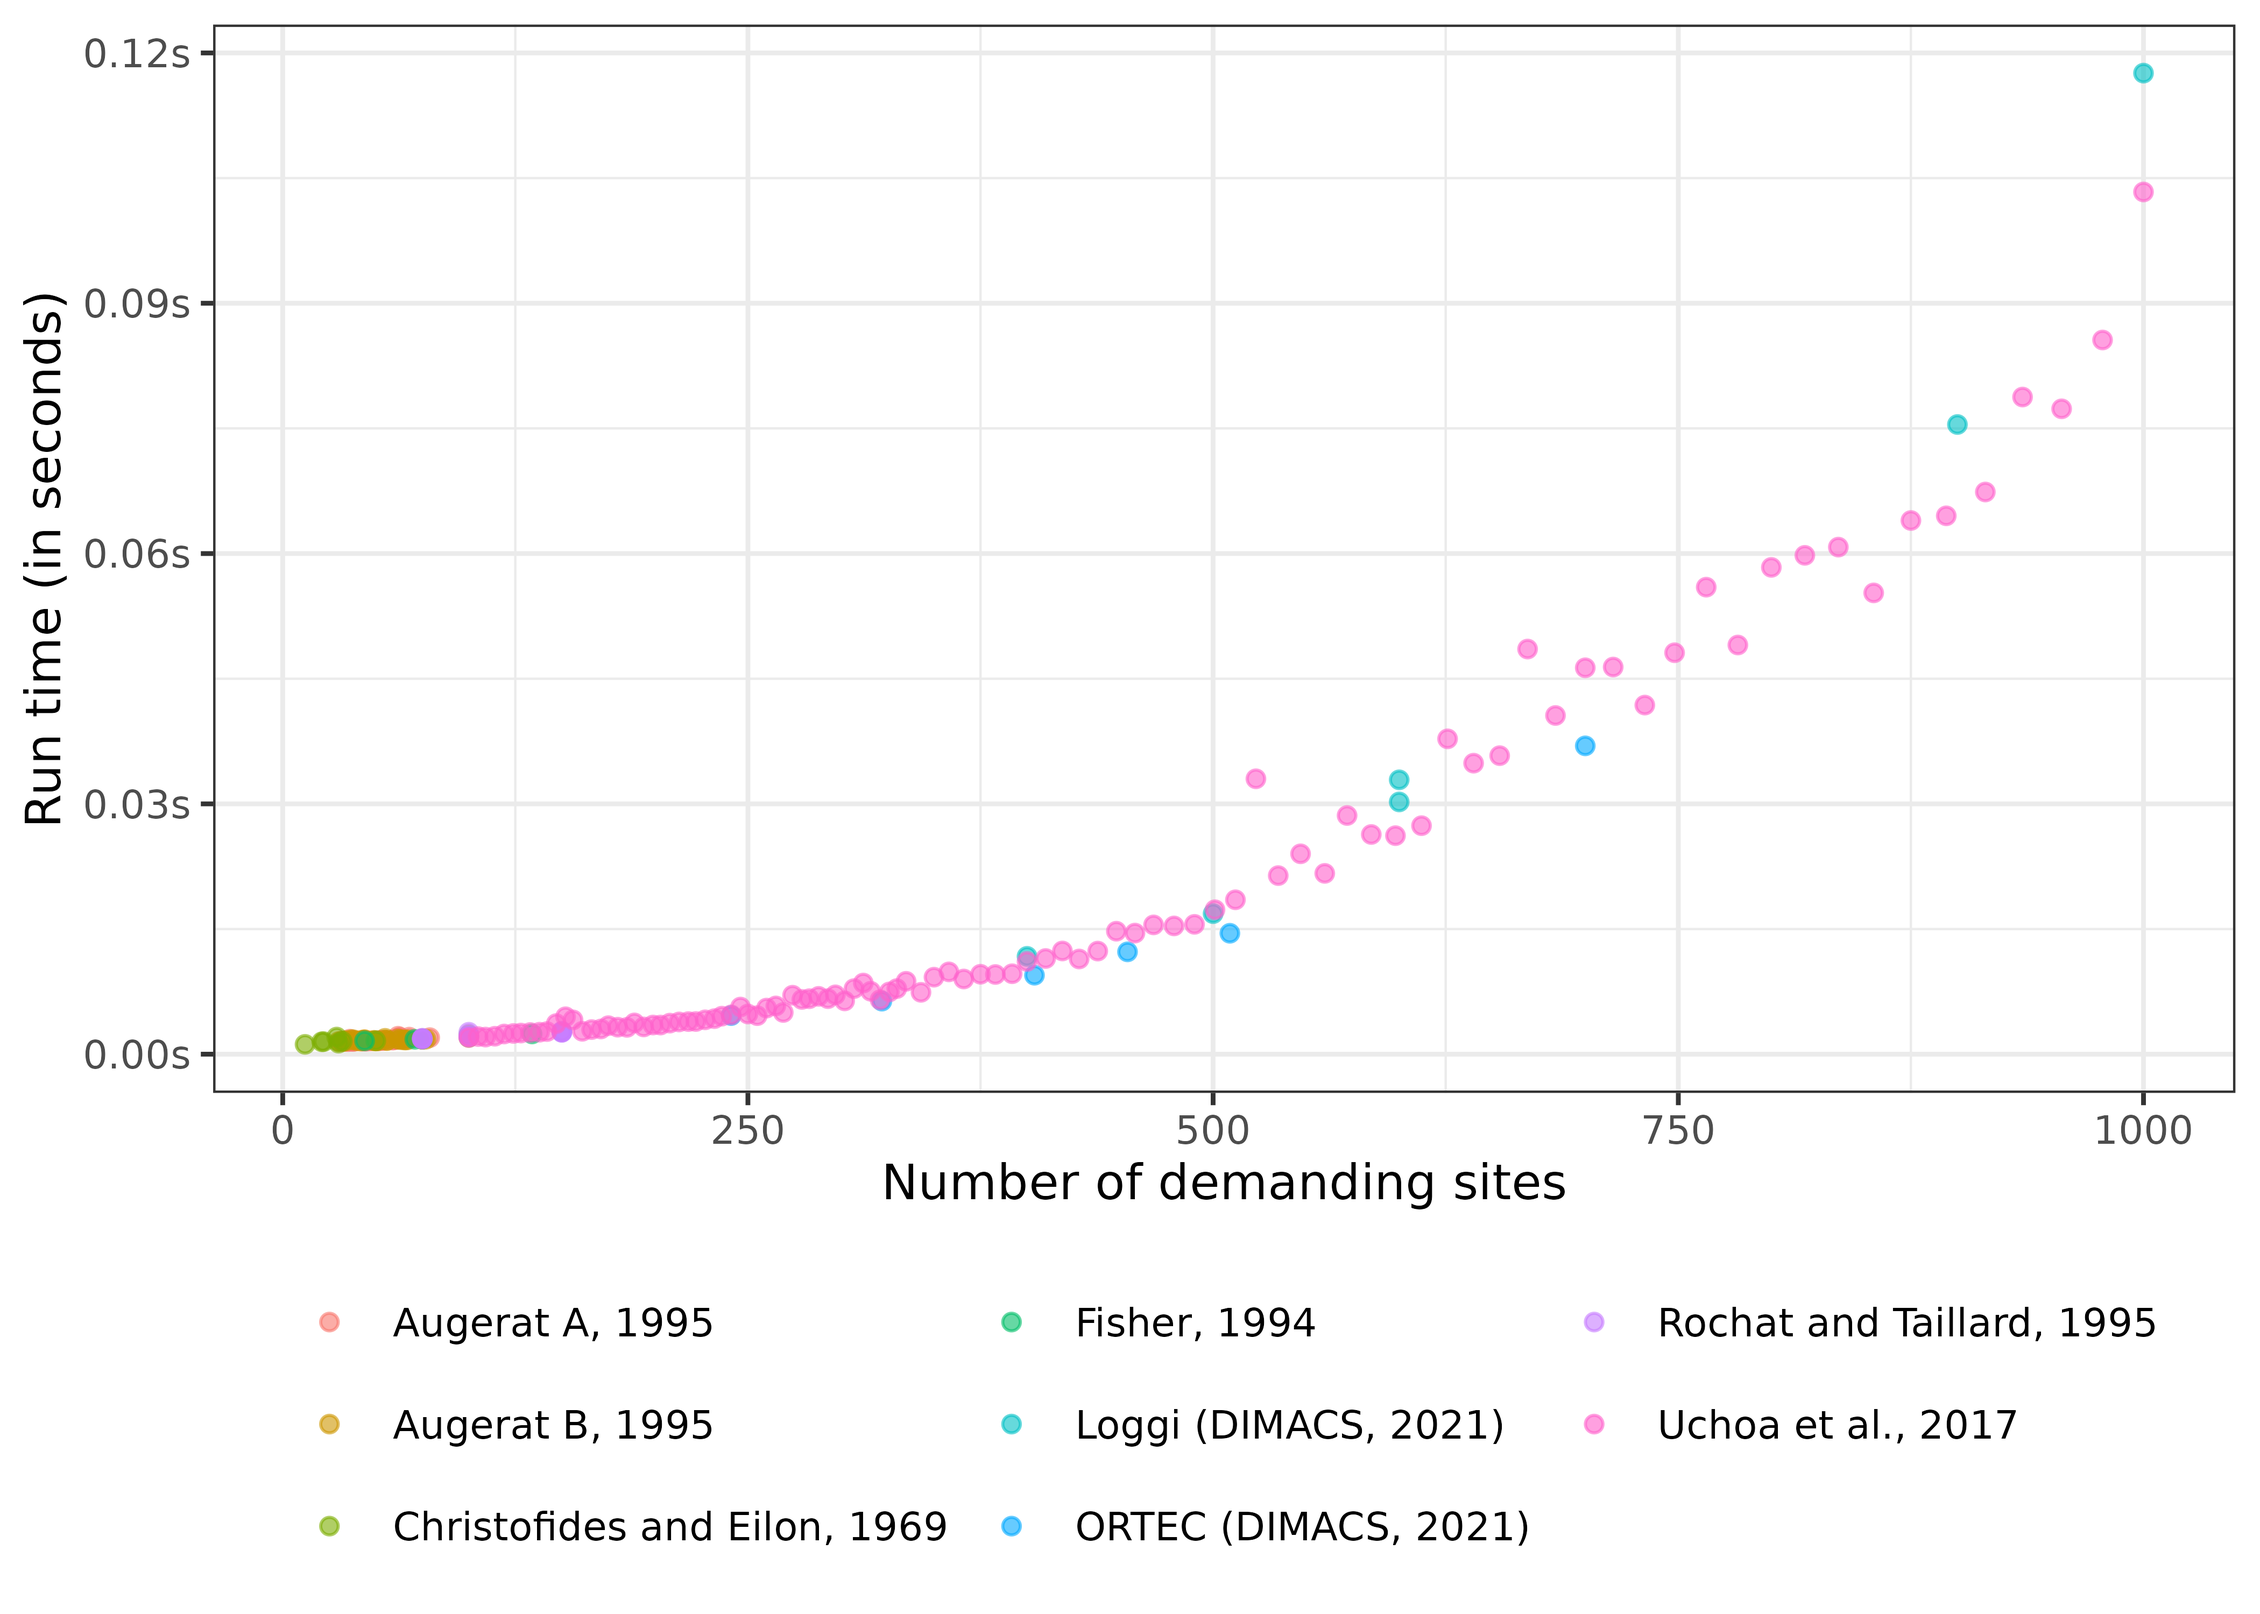
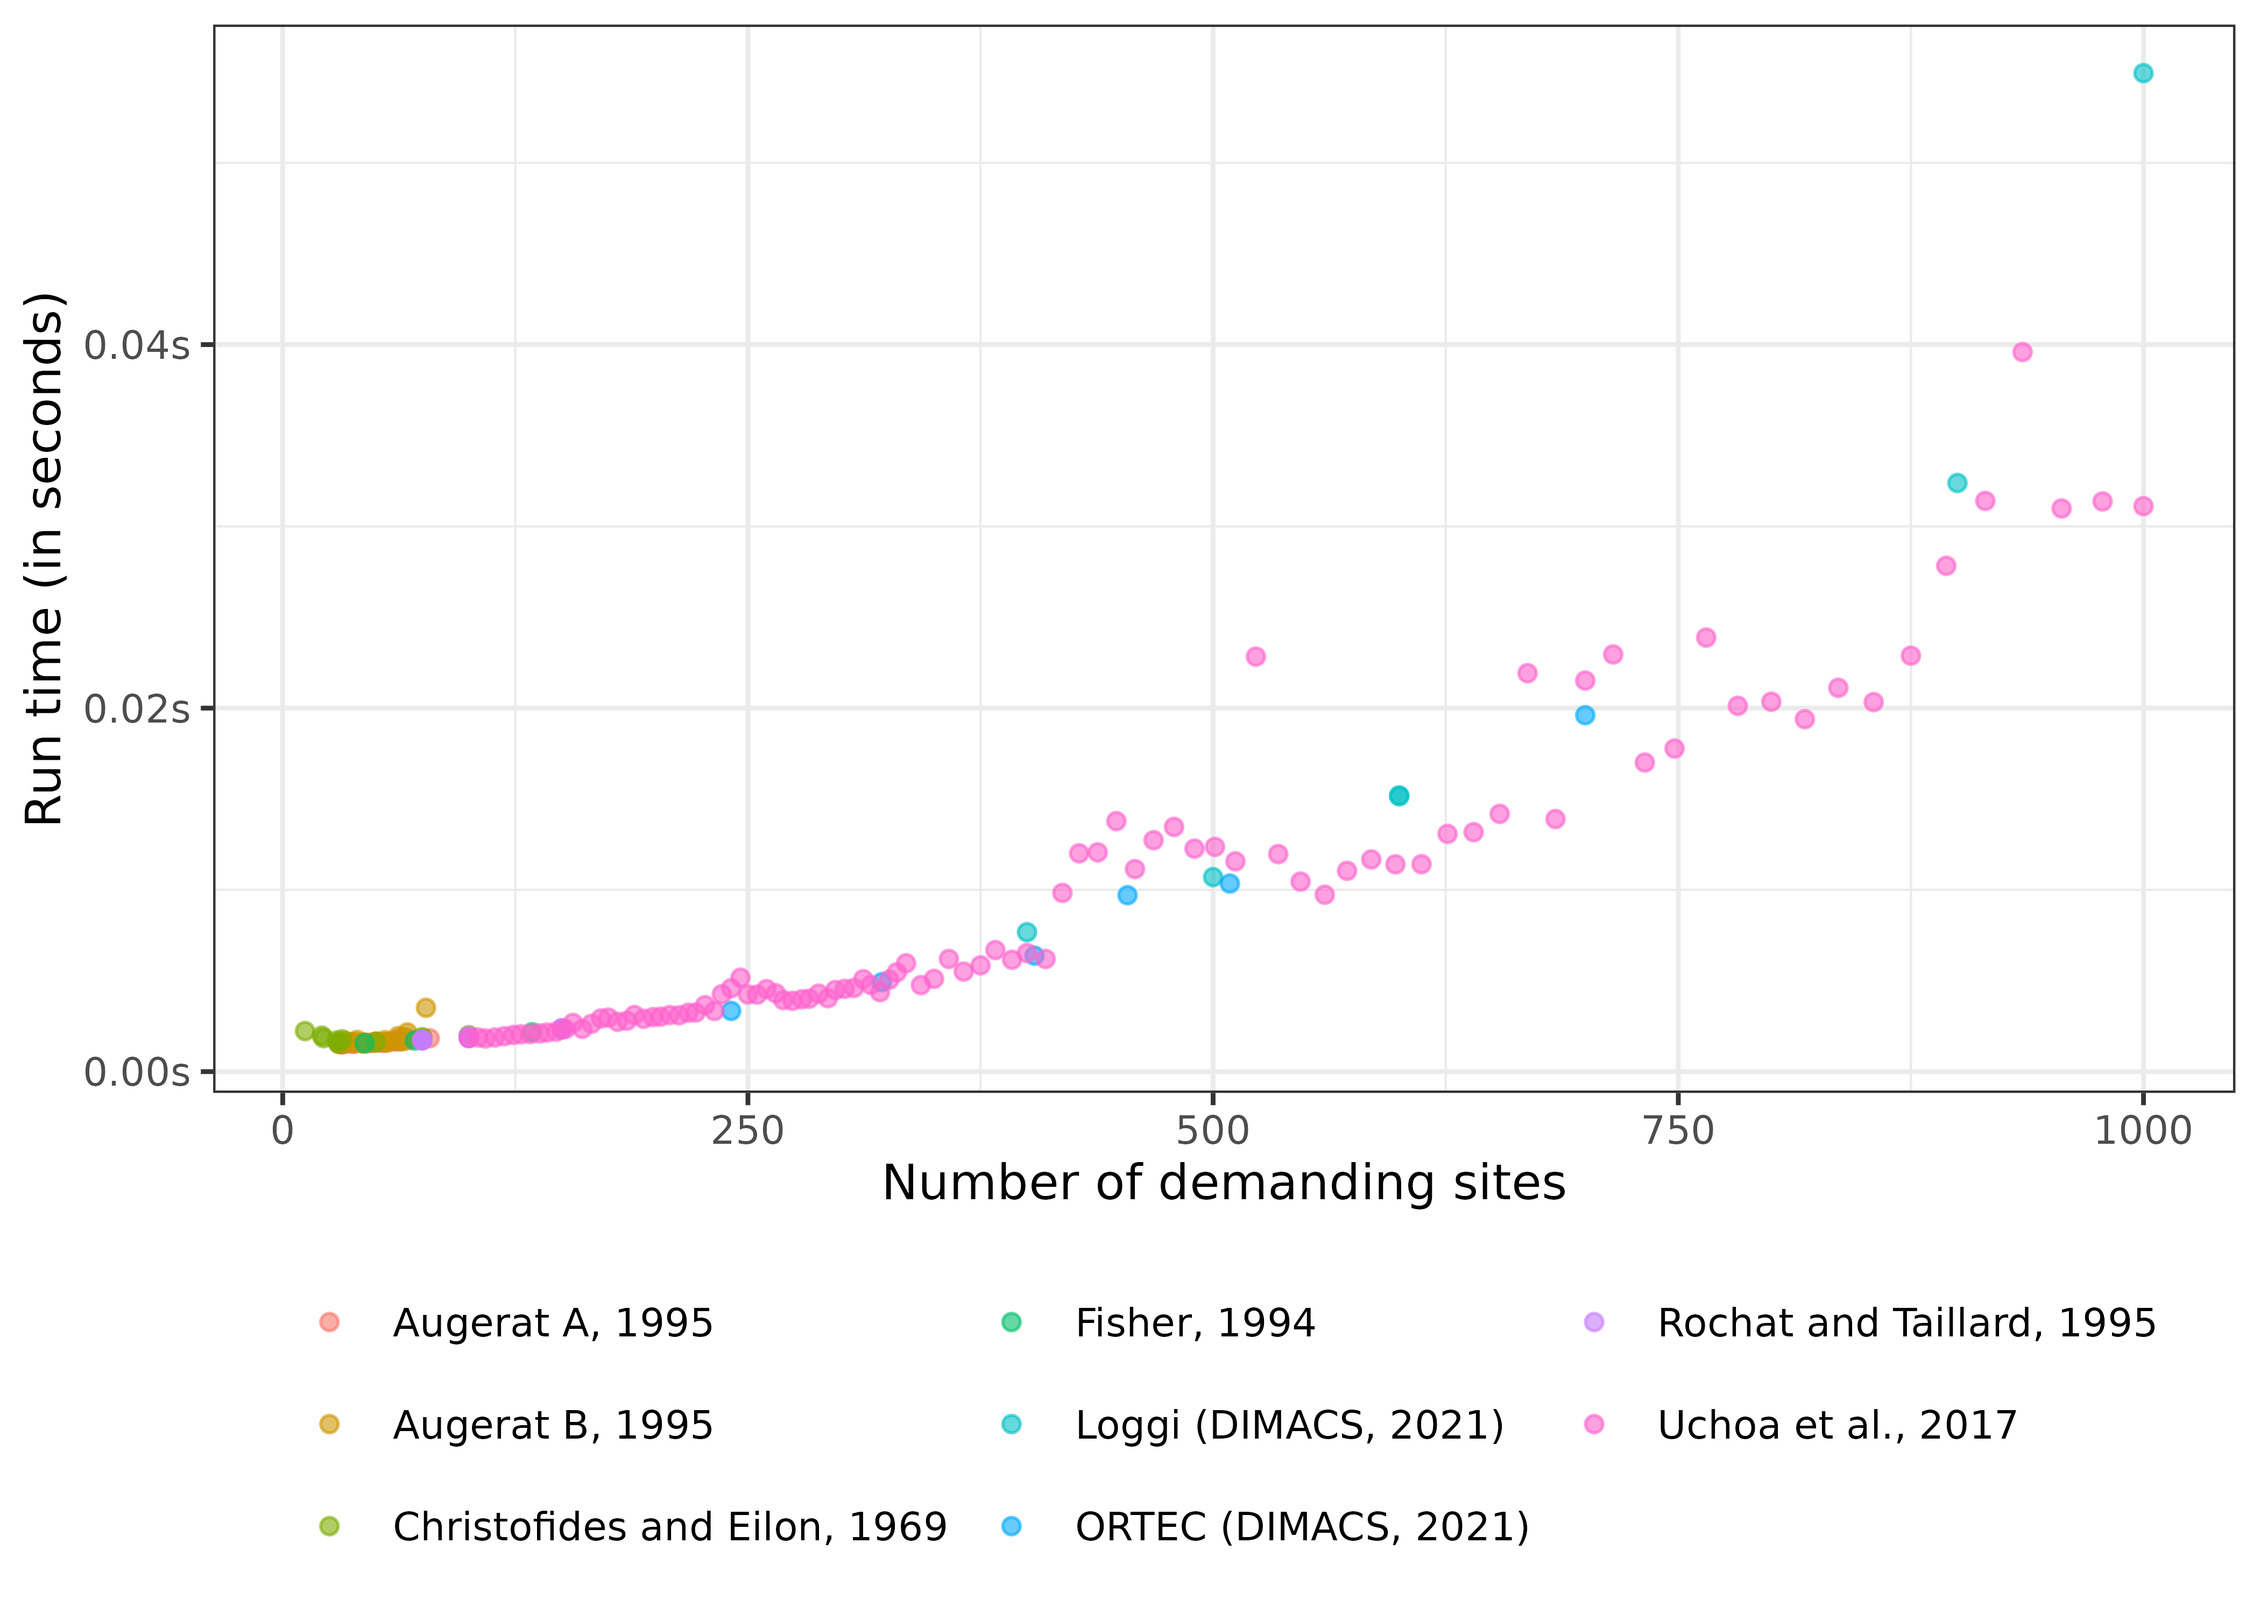
Deploying to gh-pages from @ lschneiderbauer/heumilkr@aa29b21ad86b4b2f8d690c554103edbefa1d120d 🚀

diff --git a/index.html b/index.html
@@ -59,7 +59,7 @@
 <!-- badges: end -->
 <p>This R package provides an implementation of the Clarke-Wright algorithm (<a href="#ref-clarke1964">Clarke and Wright 1964</a>) to find a quasi-optimal solution to the <a href="https://en.wikipedia.org/wiki/Vehicle_routing_problem" class="external-link">Capacitated Vehicle Routing Problem</a>.</p>
 <p>Besides deliveries, it also supports “backhaul”: sites with negative demand have goods picked up and brought back to the depot, in any order within a run as long as the load stays within the vehicle capacity.</p>
-<p>For a fixed number of vehicle types, the run time grows at best quadratically and at worst cubically with the number of sites <math display="inline" xmlns="http://www.w3.org/1998/Math/MathML"><semantics><mi>n</mi><annotation encoding="application/x-tex">n</annotation></semantics></math>. On the problems we tested with randomly placed sites and up to 4000 sites, it grew roughly like <math display="inline" xmlns="http://www.w3.org/1998/Math/MathML"><semantics><msup><mi>n</mi><mn>2.4</mn></msup><annotation encoding="application/x-tex">n^{2.4}</annotation></semantics></math> to <math display="inline" xmlns="http://www.w3.org/1998/Math/MathML"><semantics><msup><mi>n</mi><mn>2.6</mn></msup><annotation encoding="application/x-tex">n^{2.6}</annotation></semantics></math> (see <a href="#runtime-benchmarks">Runtime Benchmarks</a>).</p>
+<p>For a fixed number of vehicle types, the run time grows at best quadratically and at worst cubically with the number of sites <math display="inline" xmlns="http://www.w3.org/1998/Math/MathML"><semantics><mi>n</mi><annotation encoding="application/x-tex">n</annotation></semantics></math>. On the problems we tested with randomly placed sites and up to 4000 sites, it grew roughly like <math display="inline" xmlns="http://www.w3.org/1998/Math/MathML"><semantics><msup><mi>n</mi><mn>2</mn></msup><annotation encoding="application/x-tex">n^{2}</annotation></semantics></math> to <math display="inline" xmlns="http://www.w3.org/1998/Math/MathML"><semantics><msup><mi>n</mi><mn>2.1</mn></msup><annotation encoding="application/x-tex">n^{2.1}</annotation></semantics></math>, and roughly like <math display="inline" xmlns="http://www.w3.org/1998/Math/MathML"><semantics><msup><mi>n</mi><mn>3</mn></msup><annotation encoding="application/x-tex">n^{3}</annotation></semantics></math> if a limited vehicle type repeatedly runs out (see <a href="#runtime-benchmarks">Runtime Benchmarks</a>).</p>
 <div class="section level2">
 <h2 id="installation">Installation<a class="anchor" aria-label="anchor" href="#installation"></a>
 </h2>
@@ -175,7 +175,7 @@
 <h2 id="runtime-benchmarks">Runtime Benchmarks<a class="anchor" aria-label="anchor" href="#runtime-benchmarks"></a>
 </h2>
 <p>The benchmarks were taken on an Intel® Xeon® CPU E3-1231 v3 @ 3.40GHz CPU, using the R package <a href="https://bench.r-lib.org/" class="external-link">bench</a>.</p>
-<p>The following graph shows the run time on one kind of problem: uniformly distributed random sites, demands between 5 and 15 and a vehicle capacity of 33. It amounts to <math display="inline" xmlns="http://www.w3.org/1998/Math/MathML"><semantics><mrow><mo>∼</mo><mn>966</mn><mi>µ</mi><mi>s</mi></mrow><annotation encoding="application/x-tex">\sim 966µs</annotation></semantics></math> for <math display="inline" xmlns="http://www.w3.org/1998/Math/MathML"><semantics><mrow><mi>n</mi><mo>=</mo><mn>110</mn></mrow><annotation encoding="application/x-tex">n = 110</annotation></semantics></math>, <math display="inline" xmlns="http://www.w3.org/1998/Math/MathML"><semantics><mrow><mo>∼</mo><mn>86.2</mn><mi>m</mi><mi>s</mi></mrow><annotation encoding="application/x-tex">\sim 86.2ms</annotation></semantics></math> for <math display="inline" xmlns="http://www.w3.org/1998/Math/MathML"><semantics><mrow><mi>n</mi><mo>=</mo><mn>1010</mn></mrow><annotation encoding="application/x-tex">n = 1010</annotation></semantics></math>, and <math display="inline" xmlns="http://www.w3.org/1998/Math/MathML"><semantics><mrow><mo>∼</mo><mn>408</mn><mi>m</mi><mi>s</mi></mrow><annotation encoding="application/x-tex">\sim 408ms</annotation></semantics></math> for <math display="inline" xmlns="http://www.w3.org/1998/Math/MathML"><semantics><mrow><mi>n</mi><mo>=</mo><mn>1910</mn></mrow><annotation encoding="application/x-tex">n = 1910</annotation></semantics></math>. Run times can differ for other problems.</p>
+<p>The following graph shows the run time on one kind of problem: uniformly distributed random sites, demands between 5 and 15 and a vehicle capacity of 33. It amounts to <math display="inline" xmlns="http://www.w3.org/1998/Math/MathML"><semantics><mrow><mo>∼</mo><mn>764</mn><mi>µ</mi><mi>s</mi></mrow><annotation encoding="application/x-tex">\sim 764µs</annotation></semantics></math> for <math display="inline" xmlns="http://www.w3.org/1998/Math/MathML"><semantics><mrow><mi>n</mi><mo>=</mo><mn>110</mn></mrow><annotation encoding="application/x-tex">n = 110</annotation></semantics></math>, <math display="inline" xmlns="http://www.w3.org/1998/Math/MathML"><semantics><mrow><mo>∼</mo><mn>26.9</mn><mi>m</mi><mi>s</mi></mrow><annotation encoding="application/x-tex">\sim 26.9ms</annotation></semantics></math> for <math display="inline" xmlns="http://www.w3.org/1998/Math/MathML"><semantics><mrow><mi>n</mi><mo>=</mo><mn>1010</mn></mrow><annotation encoding="application/x-tex">n = 1010</annotation></semantics></math>, and <math display="inline" xmlns="http://www.w3.org/1998/Math/MathML"><semantics><mrow><mo>∼</mo><mn>110</mn><mi>m</mi><mi>s</mi></mrow><annotation encoding="application/x-tex">\sim 110ms</annotation></semantics></math> for <math display="inline" xmlns="http://www.w3.org/1998/Math/MathML"><semantics><mrow><mi>n</mi><mo>=</mo><mn>1910</mn></mrow><annotation encoding="application/x-tex">n = 1910</annotation></semantics></math>. Run times can differ for other problems.</p>
 <p><img src="reference/figures/README-benchmark_runtime-1.png" alt="" width="100%"></p>
 <div id="refs" class="references csl-bib-body hanging-indent" entry-spacing="0">
 <div id="ref-clarke1964" class="csl-entry">

diff --git a/news/index.html b/news/index.html
@@ -49,7 +49,7 @@
 <h3 id="new-features--improvements-development-version">New features / improvements<a class="anchor" aria-label="anchor" href="#new-features--improvements-development-version"></a></h3>
 <ul><li><p><code><a href="../reference/cvrplib_download.html">cvrplib_download()</a></code> now accepts a vector of qualifiers and returns a named list of instances in that case. The list of available instances is only requested once. A single qualifier still returns the instance itself.</p></li>
 <li><p><code><a href="../reference/clarke_wright.html">clarke_wright()</a></code> now supports negative demands: sites with negative demand are treated as “backhaul” points, i.e. they deliver goods back to the depot. Sites with positive and negative demands can be visited in any order within a run, as long as the load stays within the vehicle capacity at every point of the run. Negative demands that exceed vehicle capacities are split across multiple runs, like positive demands.</p></li>
-<li><p><code><a href="../reference/clarke_wright.html">clarke_wright()</a></code> has gained a large runtime speedup compared to the previous version: for 500 sites the run time drops from about 6 seconds to about 0.01 seconds in our benchmarks. The actual speedup depends on input characteristics and grows with the number of sites.</p></li>
+<li><p><code><a href="../reference/clarke_wright.html">clarke_wright()</a></code> has gained a large runtime speedup compared to the previous version: for 500 sites the run time drops from about 6 seconds to about 0.007 seconds in our benchmarks. The actual speedup depends on input characteristics and grows with the number of sites. In return, large problems need more memory: the savings between sites now take about <code>8 * n^2</code> bytes for <code>n</code> sites instead of half of that.</p></li>
 <li><p><code><a href="../reference/clarke_wright.html">clarke_wright()</a></code>: Results are now deterministic, also in case of tied savings. Run identifiers follow the order of run creation.</p></li>
 </ul></div>
 <div class="section level3">

diff --git a/articles/clarke_wright_performance.html b/articles/clarke_wright_performance.html
@@ -151,7 +151,7 @@ amounts to
 Xeon® CPU E3-1231 v3 @ 3.40GHz.</p>
 <p><img src="clarke_wright_performance_files/figure-html/runtime_graph-1.png" class="r-plt" alt="" width="100%"></p>
 <p>The slowest of the instances with 1000 sites takes around
-<math display="inline" xmlns="http://www.w3.org/1998/Math/MathML"><semantics><mn>118</mn><annotation encoding="application/x-tex">118</annotation></semantics></math>
+<math display="inline" xmlns="http://www.w3.org/1998/Math/MathML"><semantics><mn>55</mn><annotation encoding="application/x-tex">55</annotation></semantics></math>
 ms.</p>
 </div>
 

diff --git a/index.md b/index.md
@@ -12,7 +12,8 @@ within a run as long as the load stays within the vehicle capacity.
 For a fixed number of vehicle types, the run time grows at best
 quadratically and at worst cubically with the number of sites $`n`$. On
 the problems we tested with randomly placed sites and up to 4000 sites,
-it grew roughly like $`n^{2.4}`$ to $`n^{2.6}`$ (see [Runtime
+it grew roughly like $`n^{2}`$ to $`n^{2.1}`$, and roughly like
+$`n^{3}`$ if a limited vehicle type repeatedly runs out (see [Runtime
 Benchmarks](#runtime-benchmarks)).
 
 ## Installation
@@ -157,8 +158,8 @@ CPU, using the R package [bench](https://bench.r-lib.org/).
 
 The following graph shows the run time on one kind of problem: uniformly
 distributed random sites, demands between 5 and 15 and a vehicle
-capacity of 33. It amounts to $`\sim 966µs`$ for $`n = 110`$,
-$`\sim 86.2ms`$ for $`n = 1010`$, and $`\sim 408ms`$ for $`n = 1910`$.
+capacity of 33. It amounts to $`\sim 764µs`$ for $`n = 110`$,
+$`\sim 26.9ms`$ for $`n = 1010`$, and $`\sim 110ms`$ for $`n = 1910`$.
 Run times can differ for other problems.
 
 ![](reference/figures/README-benchmark_runtime-1.png)

diff --git a/news/index.md b/news/index.md
@@ -39,9 +39,11 @@
 
 - [`clarke_wright()`](https://lschneiderbauer.github.io/heumilkr/reference/clarke_wright.md)
   has gained a large runtime speedup compared to the previous version:
-  for 500 sites the run time drops from about 6 seconds to about 0.01
+  for 500 sites the run time drops from about 6 seconds to about 0.007
   seconds in our benchmarks. The actual speedup depends on input
-  characteristics and grows with the number of sites.
+  characteristics and grows with the number of sites. In return, large
+  problems need more memory: the savings between sites now take about
+  `8 * n^2` bytes for `n` sites instead of half of that.
 
 - [`clarke_wright()`](https://lschneiderbauer.github.io/heumilkr/reference/clarke_wright.md):
   Results are now deterministic, also in case of tied savings. Run

diff --git a/articles/clarke_wright_performance.md b/articles/clarke_wright_performance.md
@@ -88,7 +88,7 @@ for each instance, on an Intel® Xeon® CPU E3-1231 v3 @ 3.40GHz.
 
 ![](clarke_wright_performance_files/figure-html/runtime_graph-1.png)
 
-The slowest of the instances with 1000 sites takes around $`118`$ ms.
+The slowest of the instances with 1000 sites takes around $`55`$ ms.
 
 [^1]: The naming is directly taken from
     [CVRPLIB](https://galgos.inf.puc-rio.br/cvrplib/en/instances)
